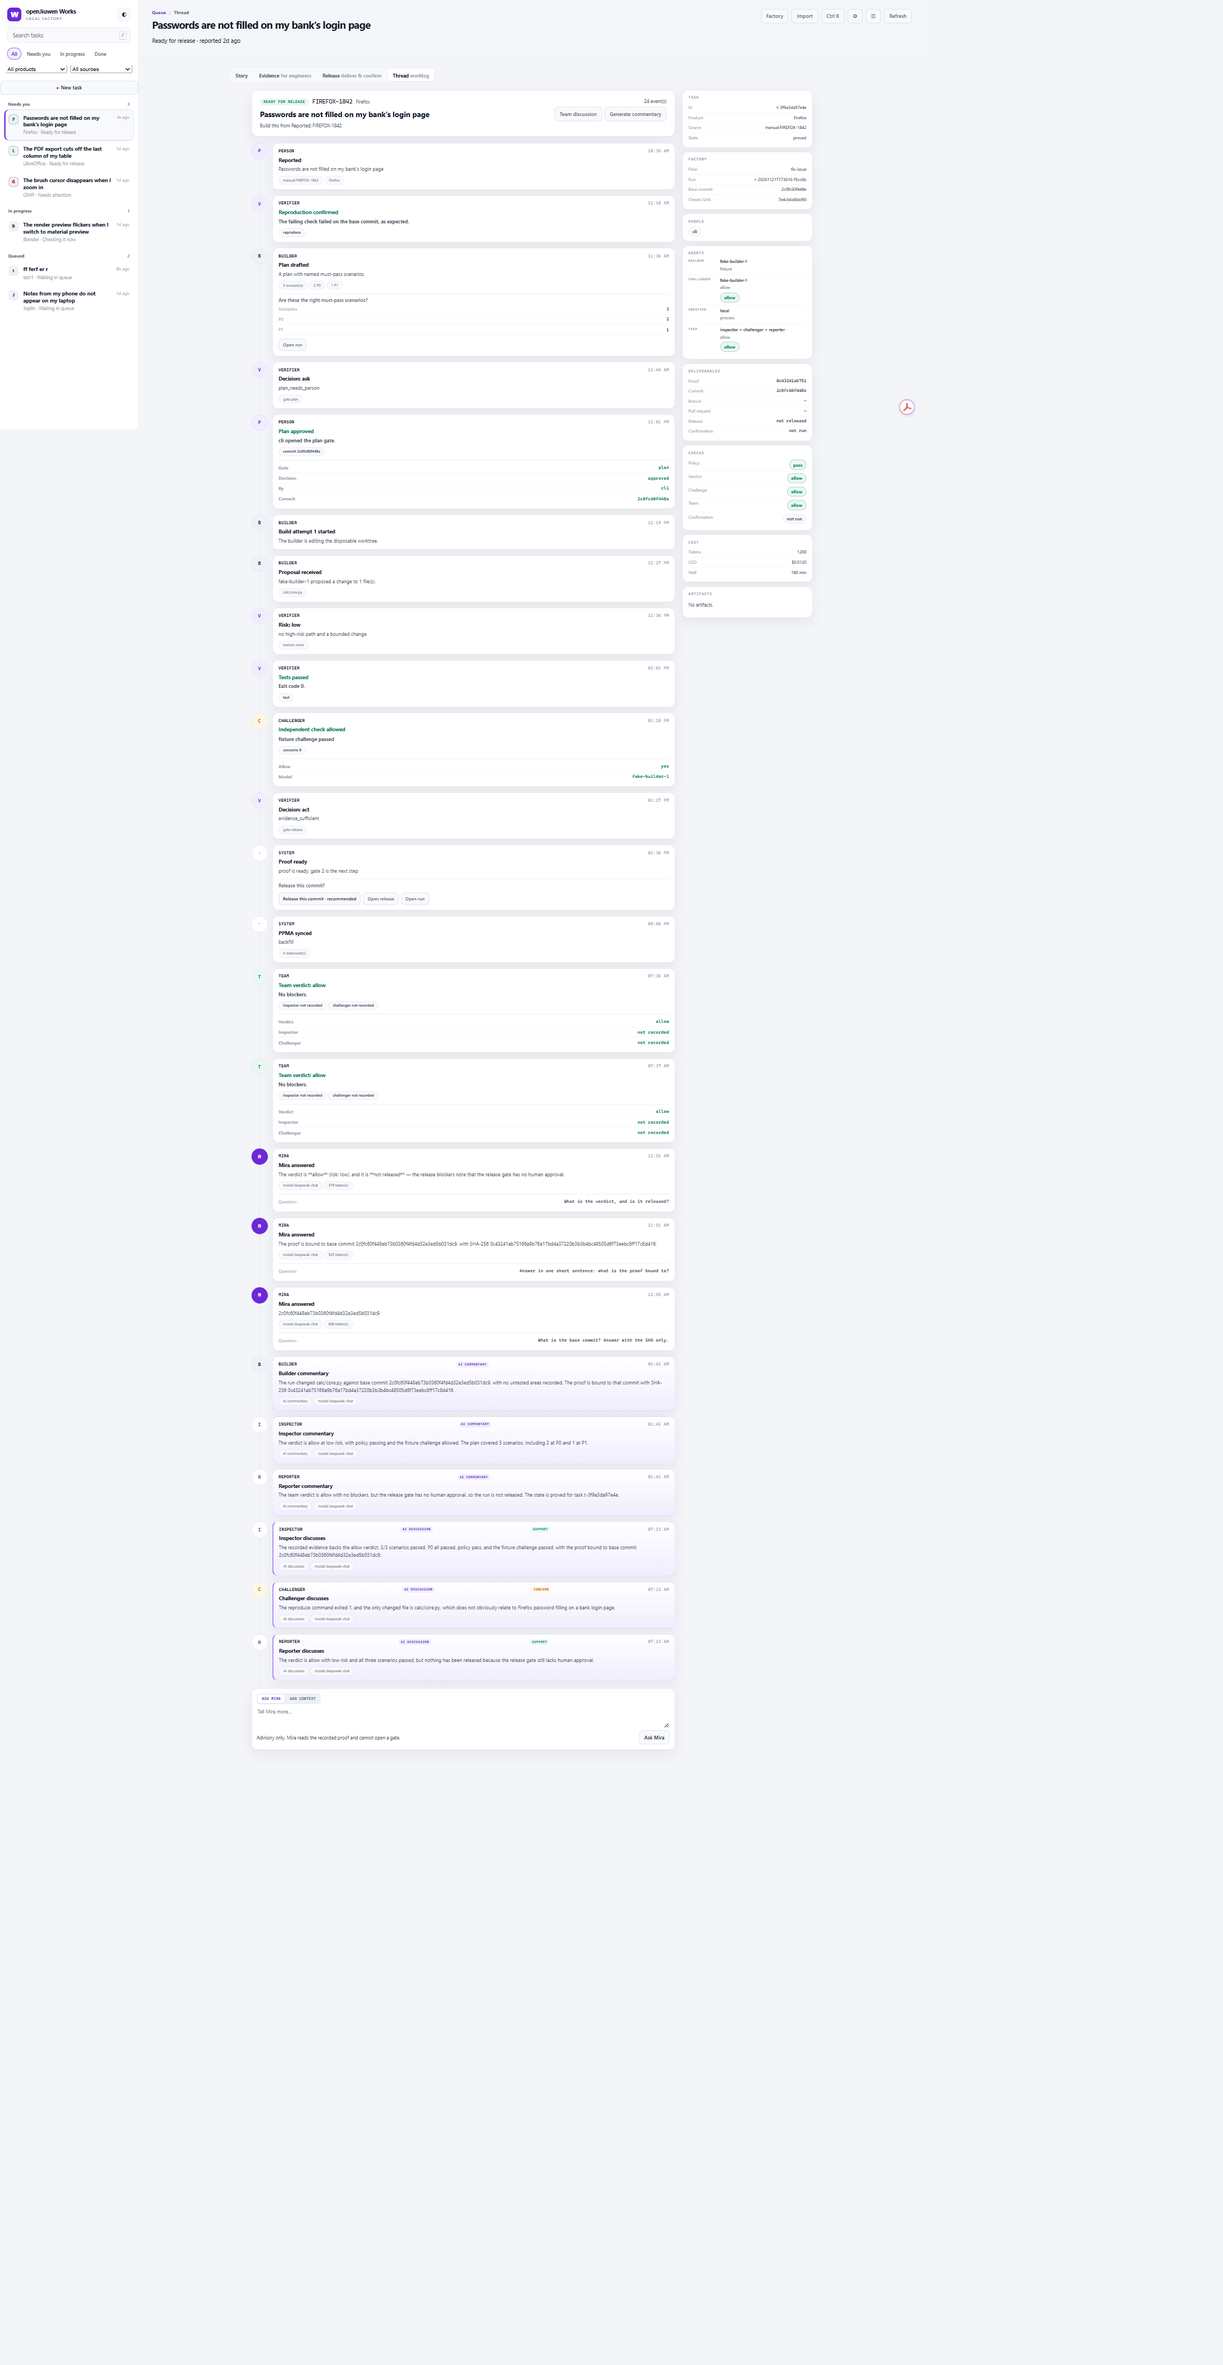
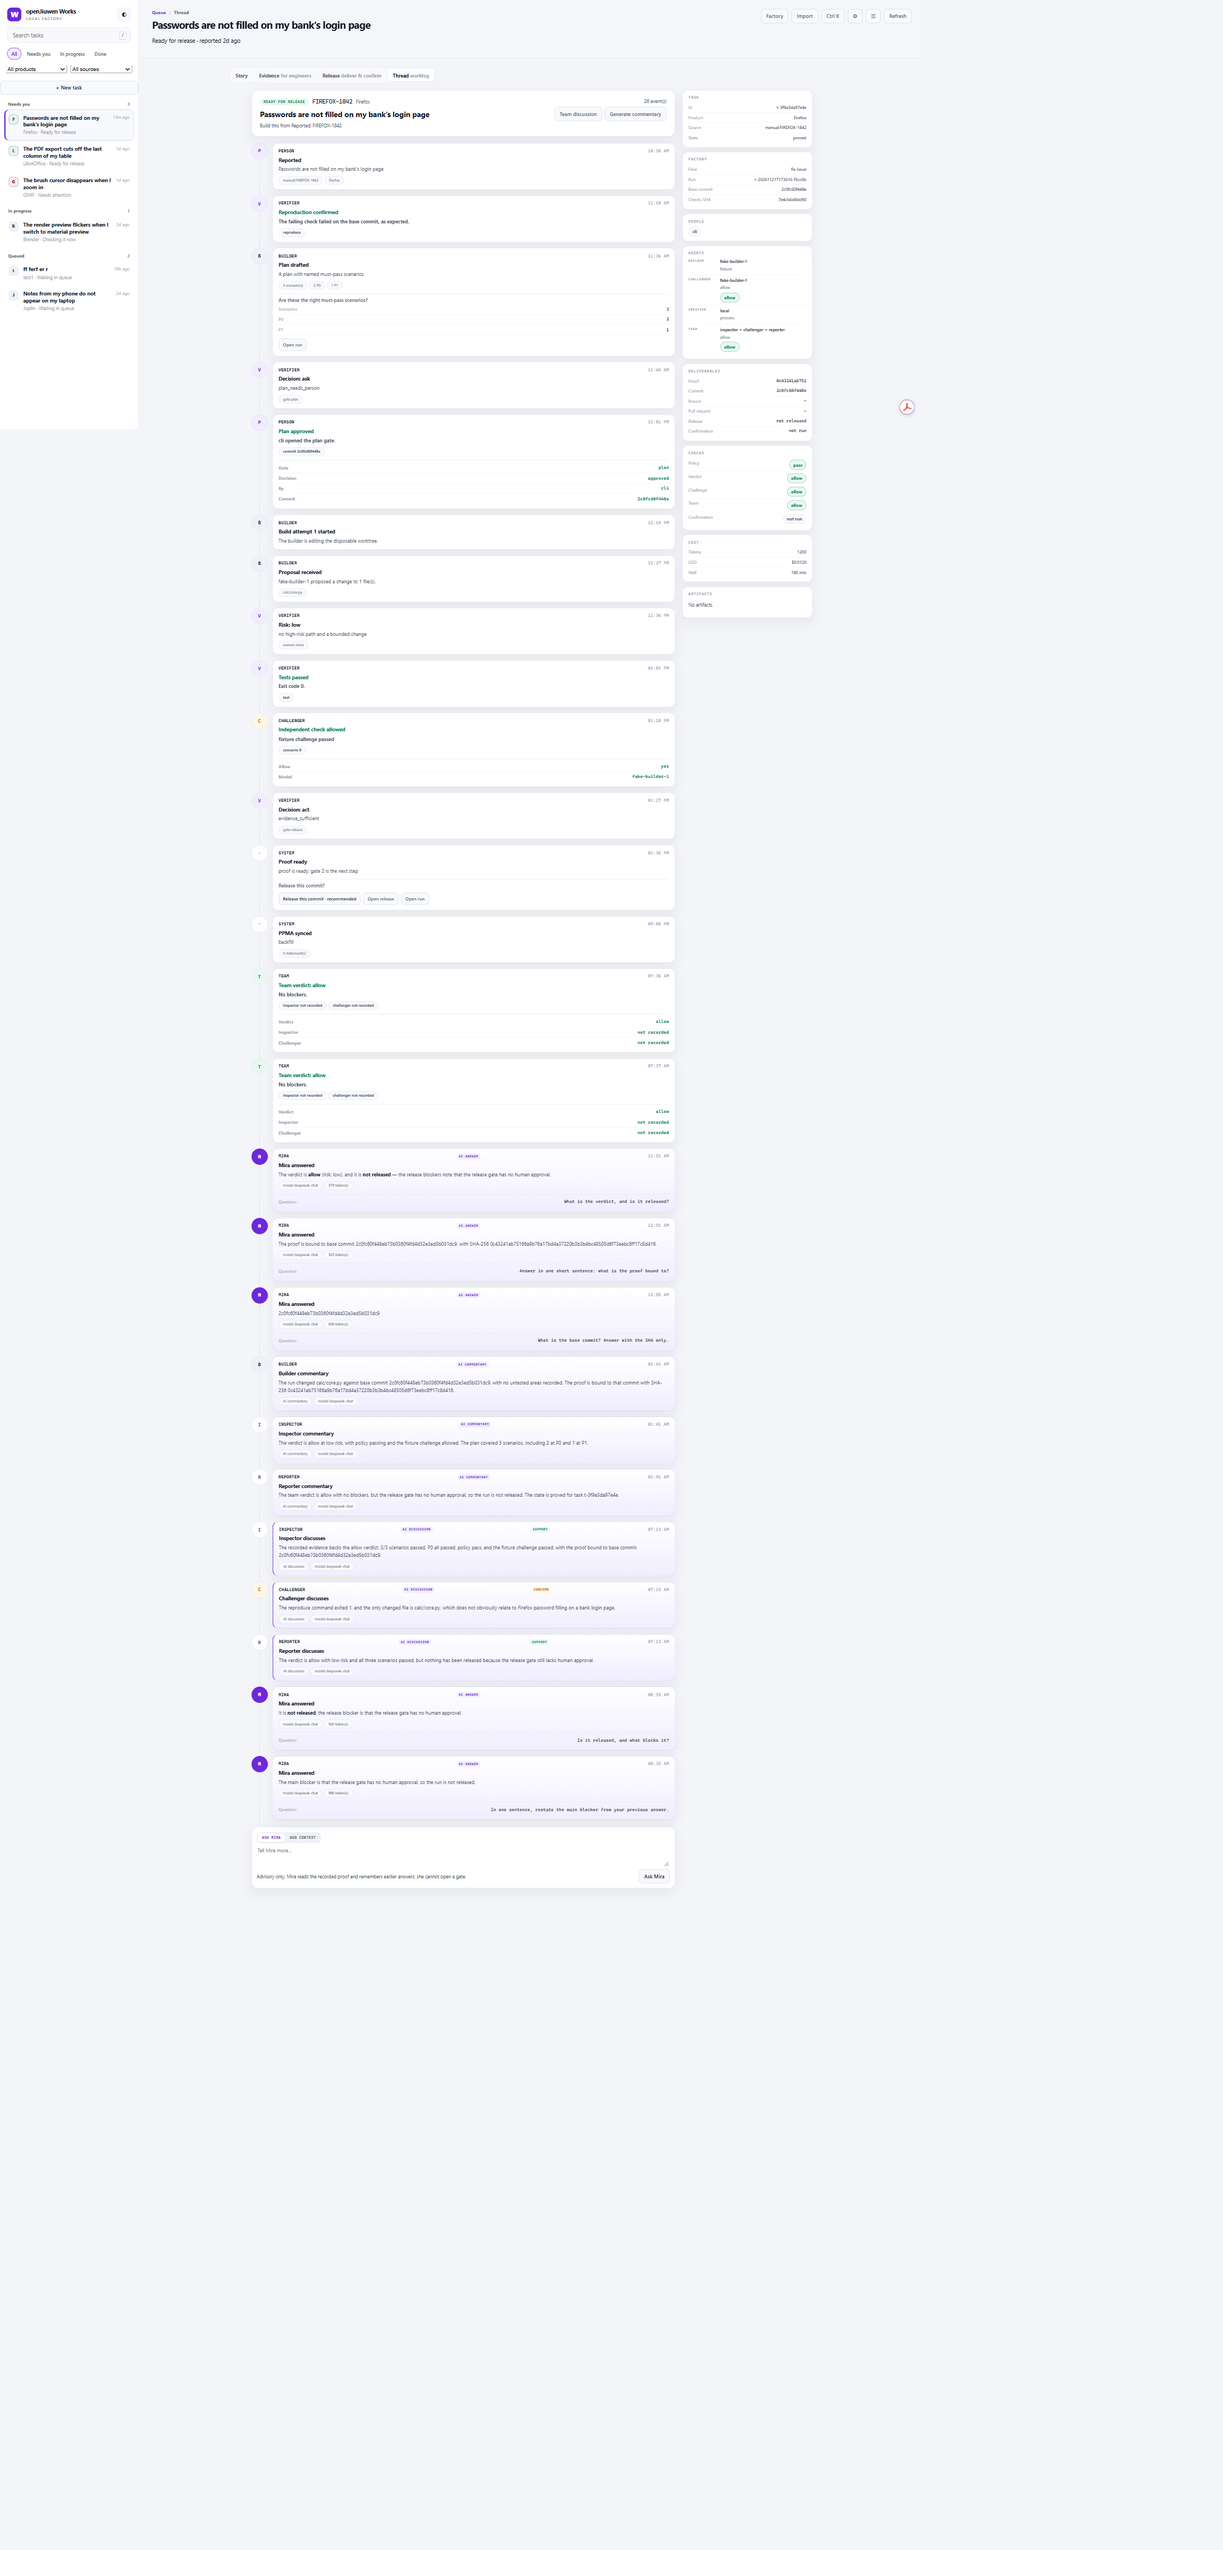
feat(thread): label AI answers and remember Ask Mira turns
Ask Mira now carries the last three recorded question/answer pairs as conversation history, so follow-up questions work from the same worklog. Every model answer gets an AI answer badge, and AI text renders safe bold/code instead of raw markdown. A client that closes its connection no longer turns the write into a server traceback.

diff --git a/src/works/ui/static/app.js b/src/works/ui/static/app.js
@@ -1440,6 +1440,12 @@ function sourceUrl(task) {
   return "";
 }
 
+function renderAiText(text) {
+  return esc(text)
+    .replace(/`([^`\n]+)`/g, "<code>$1</code>")
+    .replace(/\*\*([^*\n]+)\*\*/g, "<strong>$1</strong>");
+}
+
 function renderThreadMessage(message) {
   const role = message.role || "system";
   const facts = (message.facts || [])
@@ -1461,7 +1467,7 @@ function renderThreadMessage(message) {
         <time>${esc(new Date(message.at).toLocaleTimeString([], { hour: "2-digit", minute: "2-digit" }))}</time>
       </div>
       <h3>${esc(message.title)}</h3>
-      ${message.body ? `<p>${esc(message.body)}</p>` : ""}
+      ${message.body ? `<p>${message.generated ? renderAiText(message.body) : esc(message.body)}</p>` : ""}
       ${facts ? `<div class="thread-facts">${facts}</div>` : ""}
       ${renderThreadCard(message.card)}
     </div>
@@ -1559,7 +1565,7 @@ function renderThread(detail) {
         ${modes}
         <textarea id="thread-input" rows="2" placeholder="${mode === "ask" ? "Tell Mira more…" : "Add context to this run…"}"></textarea>
         <div class="thread-composer-actions">
-          <span class="muted small">${mode === "ask" ? "Advisory only. Mira reads the recorded proof and cannot open a gate." : "A note, not a command. It never opens a gate or starts a run."}</span>
+          <span class="muted small">${mode === "ask" ? "Advisory only. Mira reads the recorded proof and remembers earlier answers; she cannot open a gate." : "A note, not a command. It never opens a gate or starts a run."}</span>
           <button type="submit" class="btn">${mode === "ask" ? "Ask Mira" : "Add context"}</button>
         </div>
       </form>`

diff --git a/src/works/ui/static/app.css b/src/works/ui/static/app.css
@@ -838,6 +838,8 @@ dialog dd { margin: 0; }
 .thread-meta b { color: var(--text); }
 .thread-body h3 { margin: 5px 0 3px; font-size: 13px; letter-spacing: -.01em; }
 .thread-body p { margin: 0; font-size: 12px; color: var(--muted); line-height: 1.55; white-space: pre-wrap; }
+.thread-body code { font: 11px/1.4 var(--mono); background: var(--panel-3); padding: 1px 4px; border-radius: 4px; }
+.thread-body strong { color: var(--text); }
 .thread-facts { display: flex; flex-wrap: wrap; gap: 4px; margin-top: 8px; }
 .thread-facts .chip { font-size: 9px; }
 .thread-card { margin-top: 10px; border-top: 1px solid var(--line); padding-top: 6px; }

diff --git a/src/works/ui/static/index.html b/src/works/ui/static/index.html
@@ -252,6 +252,6 @@
     </dialog>
 
     <div id="toast" class="toast" role="status" aria-live="polite"></div>
-    <script src="/app.js?v=20261127"></script>
+    <script src="/app.js?v=20261129"></script>
   </body>
 </html>

diff --git a/src/works/ui/server.py b/src/works/ui/server.py
@@ -645,6 +645,7 @@ def _thread_message(event: Event, task: Task) -> dict[str, Any] | None:
     tone = ""
     card: dict[str, Any] | None = None
     generated_label = ""
+    generated = False
     stance = ""
 
     if kind == "task.created":
@@ -837,9 +838,11 @@ def _thread_message(event: Event, task: Task) -> dict[str, Any] | None:
         title = "Mira answered"
         body = str(data.get("answer") or "")
         facts = [
-            f"model {data.get('model') or '—'}",
+            f"model {data.get('model') or '-'}",
             f"{data.get('tokens') or 0} token(s)",
         ]
+        generated_label = "AI answer"
+        generated = True
         card = {
             "kind": "question",
             "rows": [["Question", str(data.get("question") or "")]],
@@ -854,6 +857,7 @@ def _thread_message(event: Event, task: Task) -> dict[str, Any] | None:
         body = str(data.get("text") or "")
         facts = ["AI commentary", f"model {data.get('model') or '-'}"]
         generated_label = "AI commentary"
+        generated = True
         card = None
     elif kind == "thread.discussion":
         role = str(data.get("role") or "mira")
@@ -866,6 +870,7 @@ def _thread_message(event: Event, task: Task) -> dict[str, Any] | None:
         stance = str(data.get("stance") or "")
         facts = ["AI discussion", f"model {data.get('model') or '-'}"]
         generated_label = "AI discussion"
+        generated = True
         card = None
     elif kind == "thread.note":
         role = "person"
@@ -954,7 +959,7 @@ def _thread_message(event: Event, task: Task) -> dict[str, Any] | None:
         "body": body,
         "facts": [item for item in facts if item],
         "tone": tone,
-        "generated": bool(data.get("generated")),
+        "generated": bool(data.get("generated")) or generated,
         "generated_label": generated_label,
         "stance": stance,
         "card": card,
@@ -1698,13 +1703,12 @@ class Handler(BaseHTTPRequestHandler):
             return
         target, filename = found
         body = target.read_bytes()
-        self.send_response(HTTPStatus.OK)
-        self.send_header("Content-Type", _content_type(target))
-        self.send_header("Content-Length", str(len(body)))
-        self.send_header("Cache-Control", "no-store")
-        self.send_header("Content-Disposition", f'attachment; filename="{filename}"')
-        self.end_headers()
-        self.wfile.write(body)
+        self._respond(
+            HTTPStatus.OK,
+            _content_type(target),
+            body,
+            headers={"Content-Disposition": f'attachment; filename="{filename}"'},
+        )
 
     def _artifact(self, path: str) -> None:
         rest = unquote(path.removeprefix("/api/tasks/"))
@@ -1722,13 +1726,12 @@ class Handler(BaseHTTPRequestHandler):
             self._json(HTTPStatus.NOT_FOUND, {"ok": False, "error": "artifact not found"})
             return
         body = target.read_bytes()
-        self.send_response(HTTPStatus.OK)
-        self.send_header("Content-Type", _content_type(target))
-        self.send_header("Content-Length", str(len(body)))
-        self.send_header("Cache-Control", "no-store")
-        self.send_header("Content-Disposition", f'inline; filename="{target.name}"')
-        self.end_headers()
-        self.wfile.write(body)
+        self._respond(
+            HTTPStatus.OK,
+            _content_type(target),
+            body,
+            headers={"Content-Disposition": f'inline; filename="{target.name}"'},
+        )
 
     def _static(self, *, head: bool = False) -> None:
         name = urlparse(self.path).path.lstrip("/")
@@ -1740,22 +1743,34 @@ class Handler(BaseHTTPRequestHandler):
             self._json(HTTPStatus.INTERNAL_SERVER_ERROR, {"ok": False, "error": "asset missing"})
             return
         body = path.read_bytes()
-        self.send_response(HTTPStatus.OK)
-        self.send_header("Content-Type", _content_type(path))
-        self.send_header("Content-Length", str(len(body)))
-        self.send_header("Cache-Control", "no-store")
-        self.end_headers()
-        if not head:
-            self.wfile.write(body)
+        self._respond(HTTPStatus.OK, _content_type(path), body, head=head)
+
+    def _respond(
+        self,
+        status: HTTPStatus,
+        content_type: str,
+        body: bytes,
+        *,
+        headers: dict[str, str] | None = None,
+        head: bool = False,
+    ) -> None:
+        """Write one response; a browser that navigated away is not a server error."""
+        try:
+            self.send_response(status)
+            self.send_header("Content-Type", content_type)
+            self.send_header("Content-Length", str(len(body)))
+            self.send_header("Cache-Control", "no-store")
+            for name, value in (headers or {}).items():
+                self.send_header(name, value)
+            self.end_headers()
+            if not head:
+                self.wfile.write(body)
+        except (BrokenPipeError, ConnectionAbortedError, ConnectionResetError):
+            self.close_connection = True
 
     def _json(self, status: HTTPStatus, payload: dict[str, Any]) -> None:
         body = json.dumps(payload, ensure_ascii=False, default=str).encode("utf-8")
-        self.send_response(status)
-        self.send_header("Content-Type", "application/json; charset=utf-8")
-        self.send_header("Content-Length", str(len(body)))
-        self.send_header("Cache-Control", "no-store")
-        self.end_headers()
-        self.wfile.write(body)
+        self._respond(status, "application/json; charset=utf-8", body)
 
     def log_message(self, format: str, *args: Any) -> None:
         LOG.debug(format, *args)

diff --git a/src/works/agent_chat.py b/src/works/agent_chat.py
@@ -18,7 +18,7 @@ from .config import WorksPaths
 from .errors import ConfigError
 from .evidence import Evidence
 from .queue import Queue
-from .records import RunRecord
+from .records import Event, RunRecord
 from .release import latest_run_dir, release_packet
 
 WORKER = Path(__file__).resolve().parents[2] / "scripts" / "agent_chat_worker.py"
@@ -159,6 +159,21 @@ def build_context(paths: WorksPaths, task_id: str) -> str:
     return "\n".join(lines)[:12000]
 
 
+def _history(events: list[Event], *, limit: int = 6) -> list[dict[str, str]]:
+    """Recent Ask Mira turns, so a follow-up question has the earlier answer in view."""
+    items: list[dict[str, str]] = []
+    for event in events:
+        if event.type != "thread.agent":
+            continue
+        question = str(event.data.get("question") or "").strip()
+        answer = str(event.data.get("answer") or "").strip()
+        if not question or not answer:
+            continue
+        items.append({"role": "user", "content": question[:2000]})
+        items.append({"role": "assistant", "content": answer[:4000]})
+    return items[-limit:]
+
+
 def _payload(paths: WorksPaths, task_id: str, question: str, *, stream: bool) -> dict[str, Any]:
     clean = question.strip()
     if not clean:
@@ -169,7 +184,7 @@ def _payload(paths: WorksPaths, task_id: str, question: str, *, stream: bool) ->
         "question": clean,
         "context": build_context(paths, task_id),
         "stream": stream,
-        "history": [],
+        "history": _history(Queue(paths).events(task_id)),
     }
 
 

diff --git a/tests/test_agent_chat.py b/tests/test_agent_chat.py
@@ -212,3 +212,41 @@ def test_generate_discussion_records_stances_as_advisory_events(paths, monkeypat
     assert events[0].data["tokens"] == 9
     assert events[1].data["tokens"] == 0
     assert events[1].data["stance"] == "block"
+
+
+def test_ask_carries_recent_worklog_turns_as_history(paths, monkeypatch) -> None:
+    task = _proved(paths)
+    _run(paths, task)
+    queue = Queue(paths)
+    for index in range(4):
+        queue.append(
+            task.id,
+            "thread.agent",
+            {"question": f"question {index}", "answer": f"answer {index}"},
+        )
+    captured: dict[str, object] = {}
+
+    class CapturingRun:
+        stdout = json.dumps(
+            {"type": "done", "text": "follow-up", "model": "m", "tokens": 3, "usd": 0.0}
+        )
+        stderr = ""
+        returncode = 0
+
+    def fake_run(*args, **kwargs):
+        captured.update(json.loads(kwargs["input"]))
+        return CapturingRun()
+
+    monkeypatch.setattr("works.agent_chat._command", lambda: ["python", "worker.py"])
+    monkeypatch.setattr("works.agent_chat._environment", lambda: {})
+    monkeypatch.setattr("works.agent_chat.subprocess.run", fake_run)
+
+    ask_mira(paths, task.id, "And now?")
+
+    history = captured["history"]
+    assert isinstance(history, list)
+    assert history[-2:] == [
+        {"role": "user", "content": "question 3"},
+        {"role": "assistant", "content": "answer 3"},
+    ]
+    assert len(history) == 6

diff --git a/scripts/agent_chat_worker.py b/scripts/agent_chat_worker.py
@@ -22,7 +22,8 @@ SYSTEM = """You are Mira, the worklog assistant inside openJiuwen Works.
 Answer only from the run context below. If the context does not contain the answer, say
 "Not recorded in this run." Do not invent a commit, a test, a gate, a release or a delivery.
 You are advisory: you cannot approve, release, retry or change anything. Be concise: 1-5 sentences.
-When useful, name the evidence you used (for example "verdict", "release blockers", "confirmation").
+Plain text only, no markdown. When useful, name the evidence you used (for example "verdict",
+"release blockers" or "confirmation").
 """
 
 COMMENTARY_SYSTEM = """You are Mira's advisory commentary layer inside openJiuwen Works.

diff --git a/tests/test_ui.py b/tests/test_ui.py
@@ -599,6 +599,8 @@ def test_detail_exposes_a_mira_answer(paths, submit) -> None:
             message["role"] == "mira"
             and message["title"] == "Mira answered"
             and message["body"] == "Not released."
+            and message["generated"] is True
+            and message["generated_label"] == "AI answer"
             for message in messages
         )
 

diff --git a/docs/ui.md b/docs/ui.md
@@ -37,7 +37,9 @@ The same evidence page serves two audiences without a second data source:
   factory, people, agents, deliverables, checks, cost and artifacts. In `--write` it has two inputs:
   **Add context** appends a `thread.note`; **Ask Mira** asks a real `openjiuwen` model about the
   recorded run. The answer streams token-by-token, is stored as `thread.agent`, and is advisory:
-  it cannot approve, release, retry or change anything. Inline plan/release questions carry
+  it cannot approve, release, retry or change anything. Follow-up questions carry the last three
+  recorded answers as history. Every model answer carries an `AI answer` badge; commentary and
+  discussion carry their own labels. Inline plan/release questions carry
   recommended actions and `Open run`; `Generate commentary` adds labelled Builder / Inspector /
   Reporter messages, and `Team discussion` adds labelled Inspector / Challenger / Reporter
   messages with a stance. Both are model output: they are advisory and cannot open a gate.

diff --git a/docs/plan.md b/docs/plan.md
@@ -685,6 +685,10 @@ Internal only: nothing is published to the upstream fork until M2 is green.
   - 2026-11-23: added an advisory `Team discussion` layer: the model writes inspector, challenger
     and reporter messages with a support / concern / block stance, stored as `thread.discussion`
     and labelled AI text. It cannot change a verdict or open a gate.
+  - 2026-11-23: Ask Mira now carries the last three recorded question/answer pairs, so the
+    composer behaves like a worklog conversation without inventing memory outside the record.
+    Every model answer is labelled `AI answer` and AI text renders safe bold/code instead of raw
+    markdown. A client that navigates away no longer turns a closed socket into a server traceback.
 - [ ] **T1.25** Verification cost split: builder, challenger and verifier tokens/USD in `run.json`
   and the proof; verification share is reported next to the total. **S**
 - [x] **T1.26** PPMA memory backfill: `works memory backfill` reports already-finished runs from

diff --git a/docs/agent-core.md b/docs/agent-core.md
@@ -47,7 +47,8 @@ starts `scripts/agent_chat_worker.py` with agent-core's Python. The worker uses 
 Every answer is stored as `thread.agent` with the question, answer, model, tokens and USD. The
 system prompt forbids inventing evidence: if the context does not contain an answer, Mira says
 "Not recorded in this run." The answer is advisory and cannot approve, release, retry or change a
-task.
+task. Each request carries the last three recorded question/answer pairs as conversation history,
+so a follow-up question keeps the earlier answer in view.
 
 Two further model layers work over the same recorded context. `Generate commentary` stores three
 short messages as `thread.commentary` (builder, inspector, reporter). `Team discussion` stores
